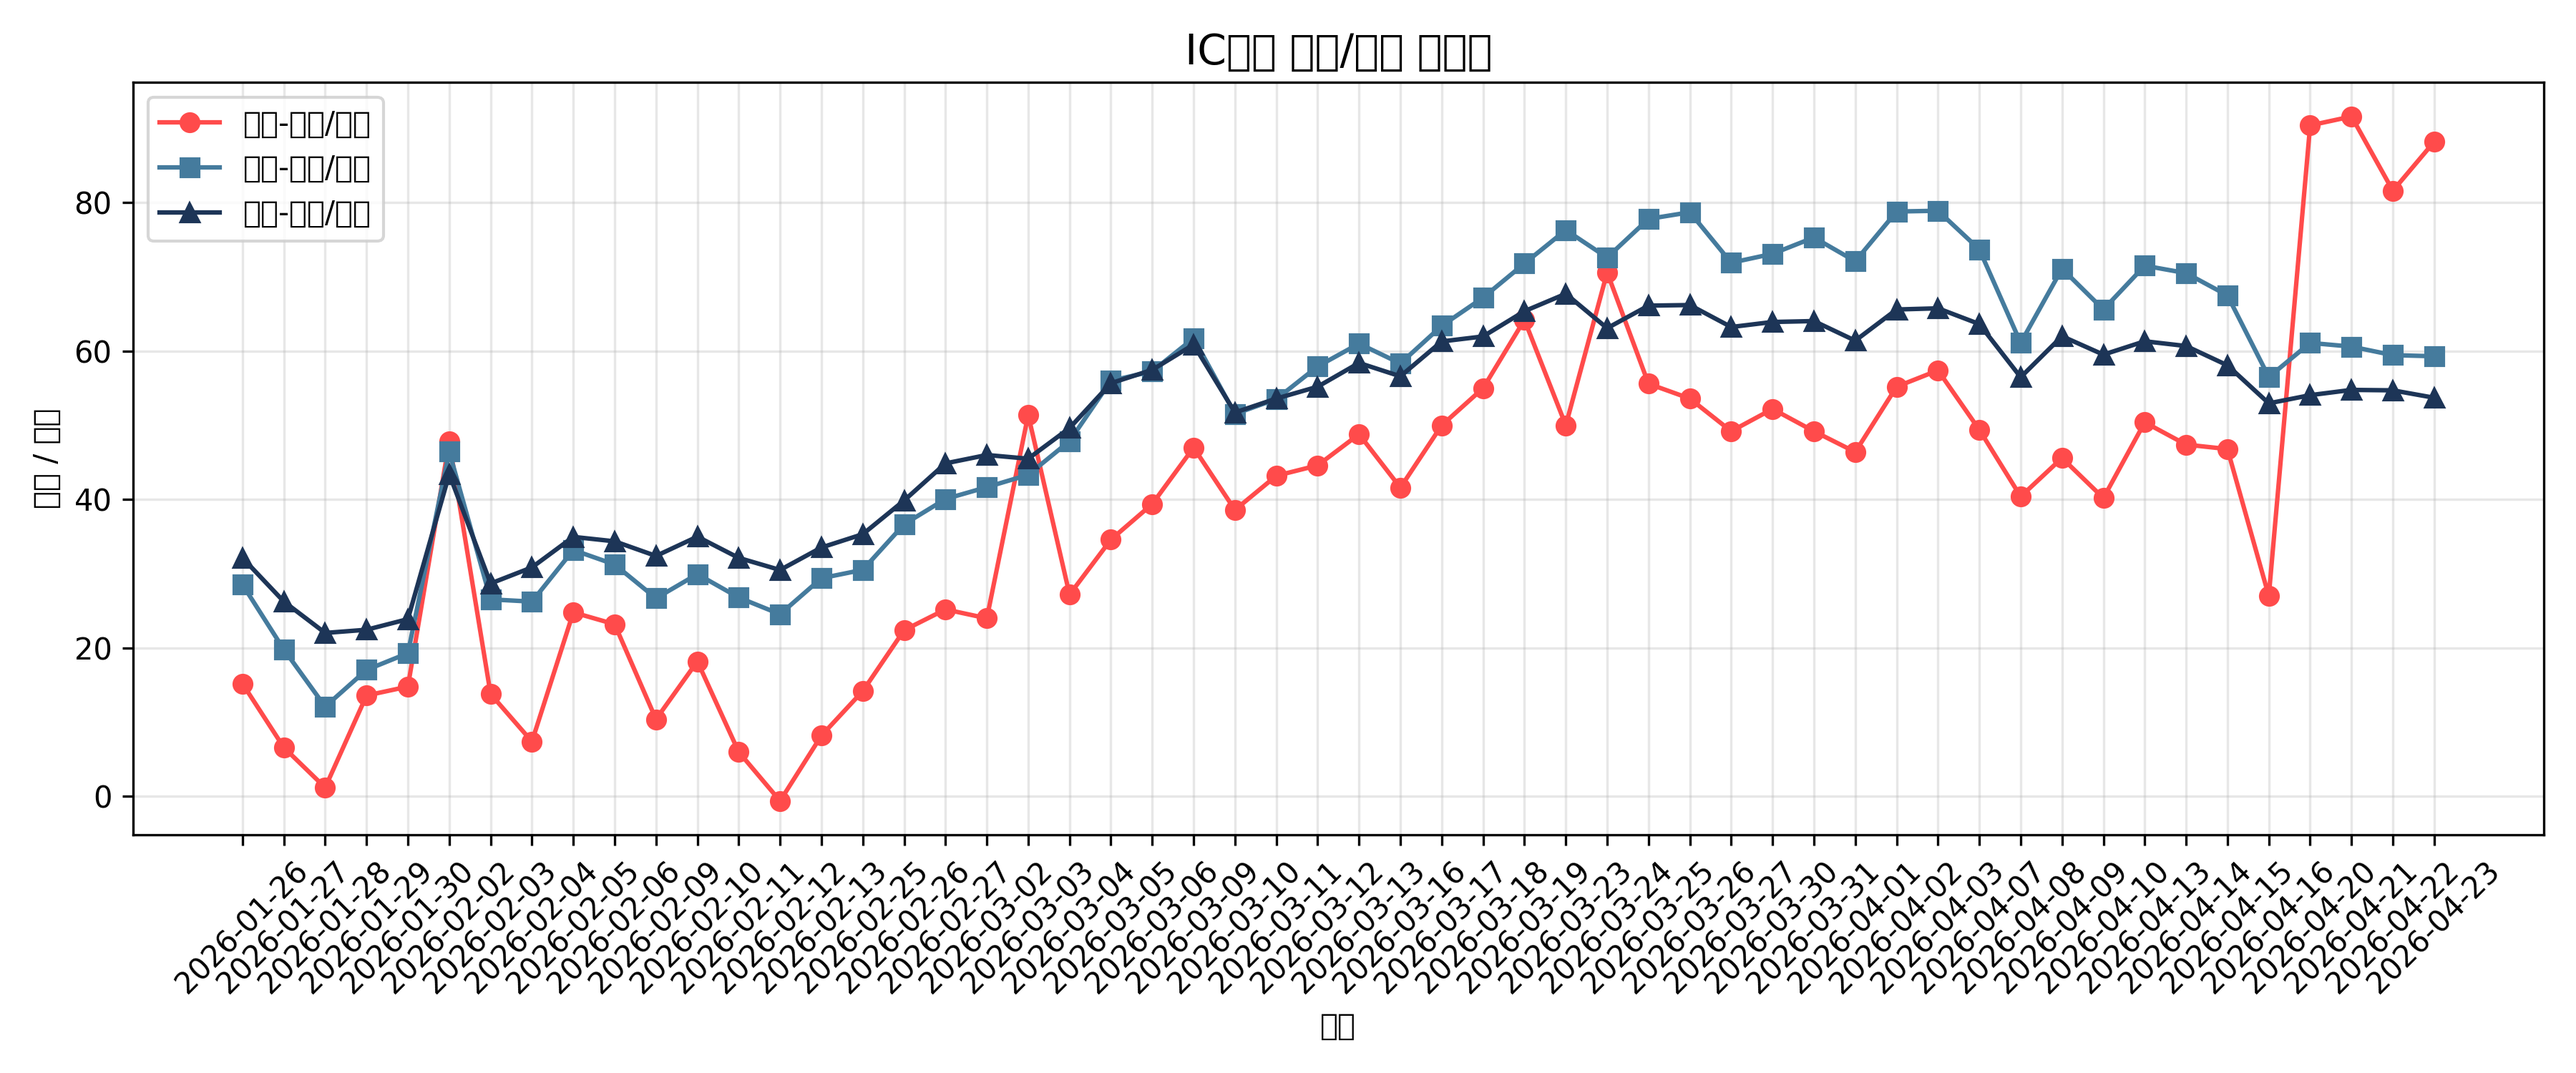
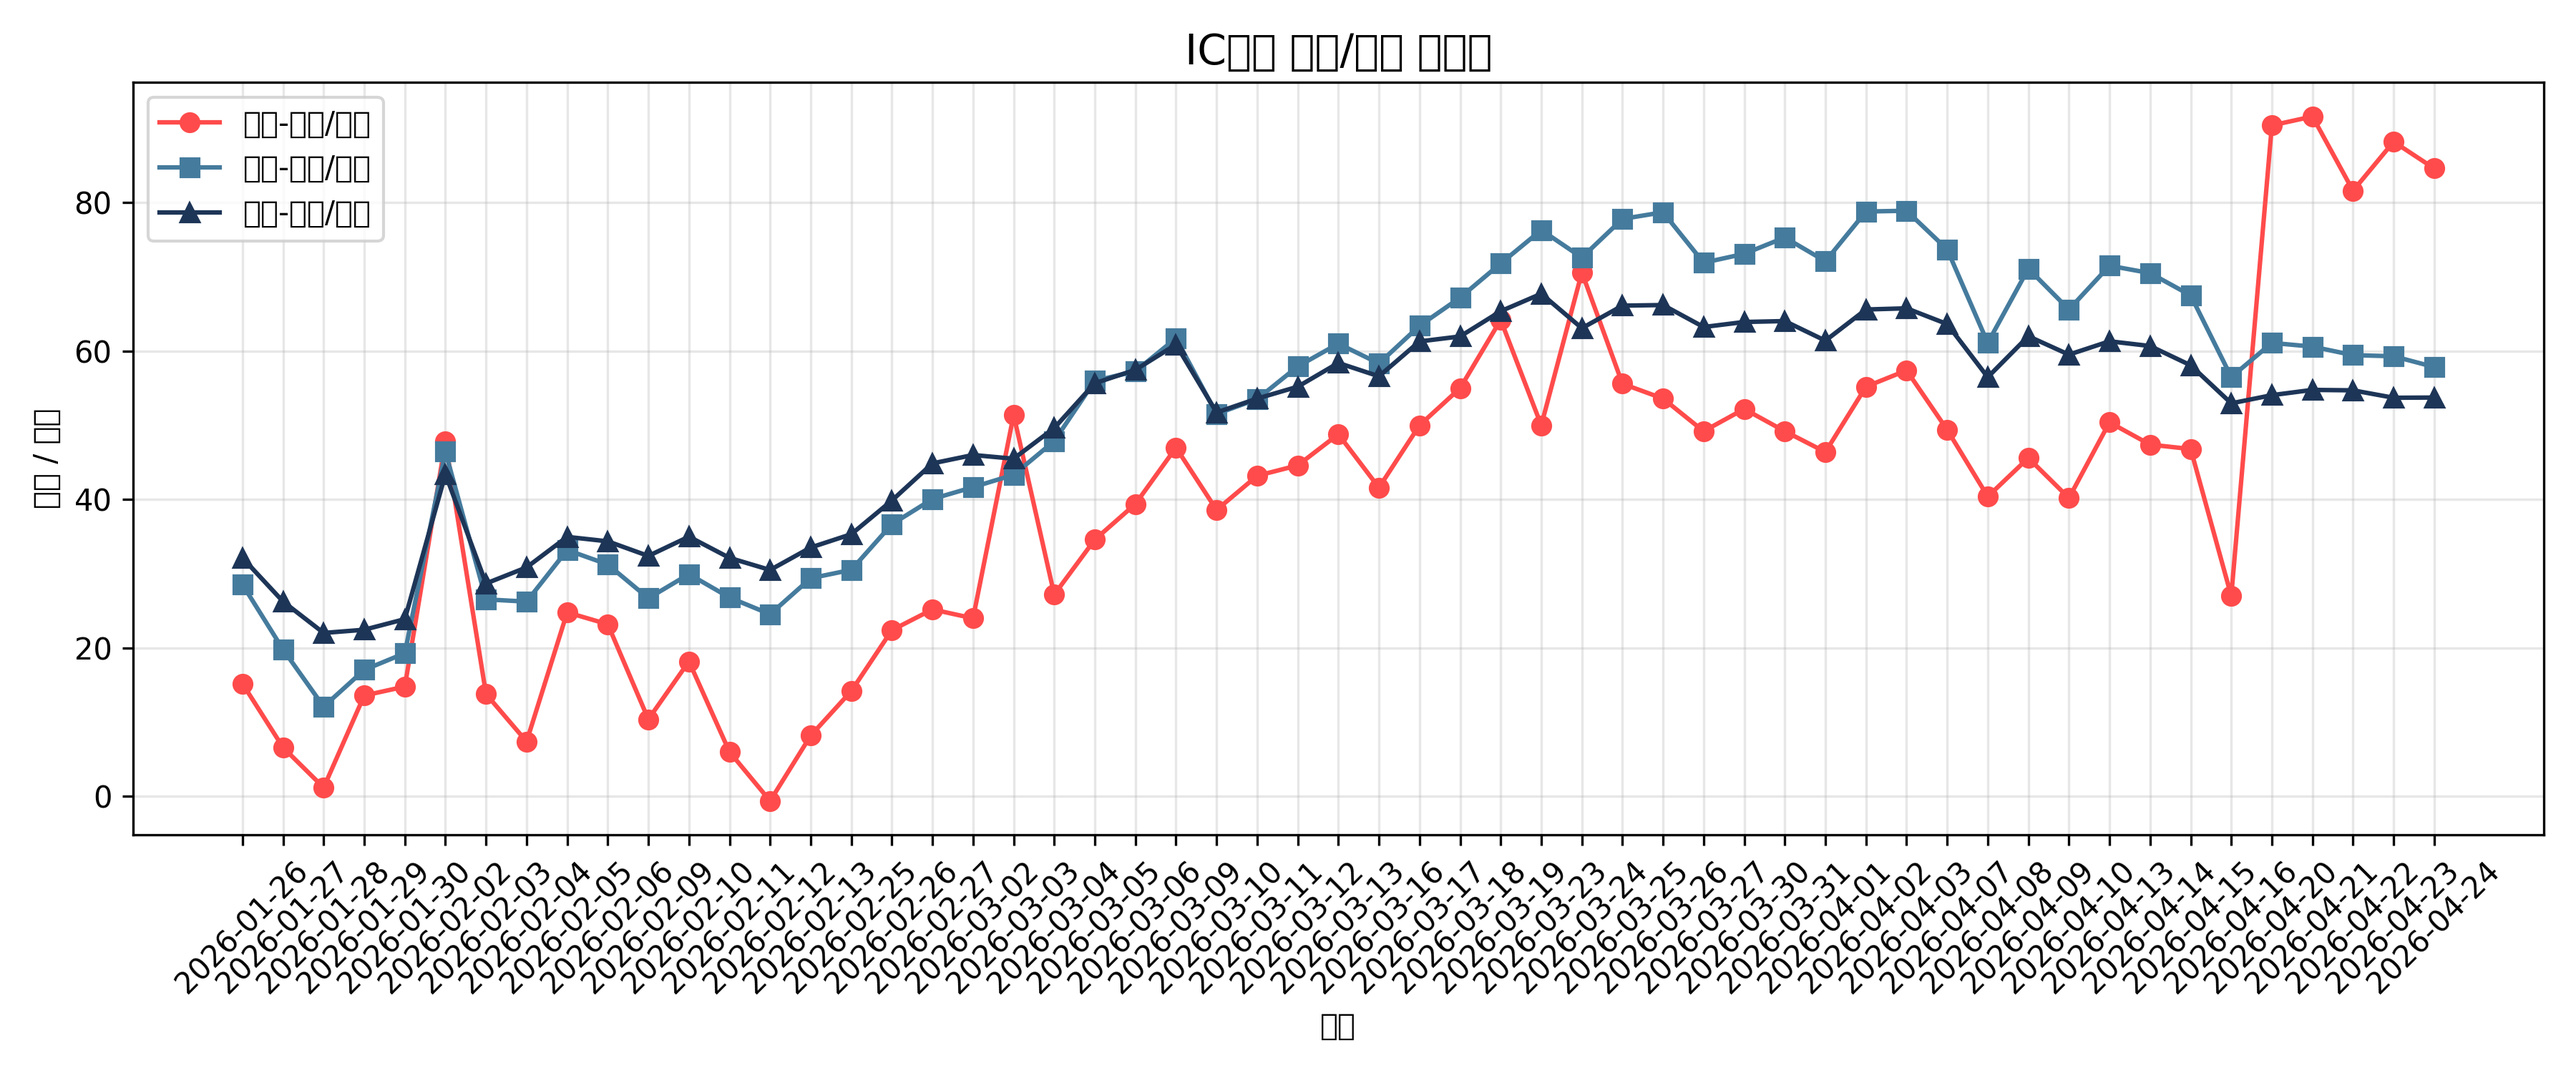
deploy: 4d1bb30b7b0bf8623cc214497fc979b4192c654b

diff --git a/index.html b/index.html
@@ -84,19 +84,19 @@
 <body>
     <div class="container">
         <h1>IC期货基差监控</h1>
-        <div class="last-updated">最后更新：2026-04-23 18:06:48</div>
+        <div class="last-updated">最后更新：2026-04-24 18:04:58</div>
         
         <div class="stats">
             <div class="stat-card">
-                <div class="stat-value">88.2</div>
+                <div class="stat-value">84.6</div>
                 <div class="stat-label">当月-下月/月差</div>
             </div>
             <div class="stat-card">
-                <div class="stat-value">59.3</div>
+                <div class="stat-value">57.85</div>
                 <div class="stat-label">当月-当季/月差</div>
             </div>
             <div class="stat-card">
-                <div class="stat-value">53.71</div>
+                <div class="stat-value">53.74</div>
                 <div class="stat-label">当月-下季/月差</div>
             </div>
         </div>
@@ -114,14 +114,6 @@
                 <th>当月-下月/月差</th>
                 <th>当月-当季/月差</th>
                 <th>当月-下季/月差</th>
-            </tr>
-
-            <tr>
-                <td>2026-04-14</td>
-                <td>IC2604</td>
-                <td>47.4</td>
-                <td>70.5</td>
-                <td>60.68</td>
             </tr>
 
             <tr>
@@ -170,6 +162,14 @@
                 <td>88.2</td>
                 <td>59.3</td>
                 <td>53.71</td>
+            </tr>
+
+            <tr>
+                <td>2026-04-24</td>
+                <td>IC2605</td>
+                <td>84.6</td>
+                <td>57.85</td>
+                <td>53.74</td>
             </tr>
 
         </table>
